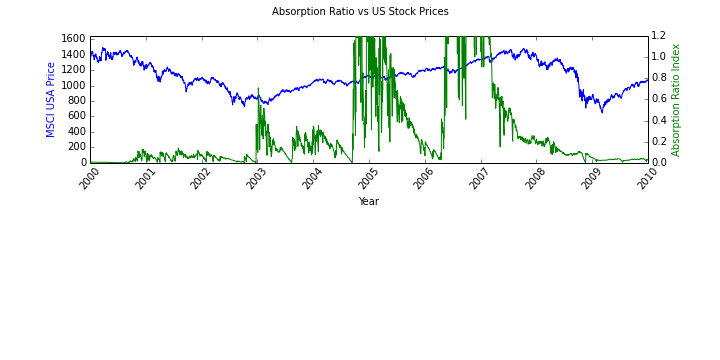
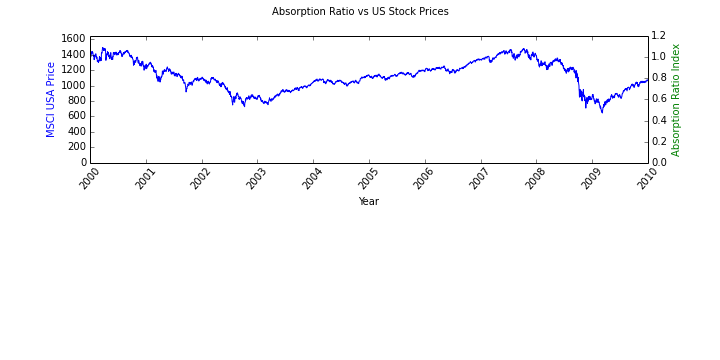
update

diff --git a/main.py b/main.py
@@ -6,7 +6,6 @@
 
 """STAGE 1: IMPORT LIBRARY"""
 import pandas as pd
-<<<<<<< HEAD
 import systemicRiskMeasures as srm                                             #Import Systemic Risk Measures library
 
 
@@ -63,31 +62,35 @@ MSCIUS_PRICES= pd.load('MSCIUSA')
 
 
 """STAGE 3: IMPORT SYSTEMIC RISK MEASURES AND RUN SIGNALS"""
+
 #Mahalanobis Distance
         #Input
 MD_input=EM_Asia_xIndia_returns           #Change this value for data required
         #Run
-SRM_mahalanobis= srm.MahalanobisDist(Returns=MD_input)                       
+SRM_mahalanobis= srm.MahalanobisDist(Returns=MD_input)   
 SRM_mahalanobis_turbulent_nonturbulent_days= srm.MahalanobisDist_Turbulent_Returns(MD_returns= SRM_mahalanobis, Returns=MD_input)
+MD_input= MD_input.drop('MD',1)
+EM_Asia_xIndia_returns = EM_Asia_xIndia_returns.drop('MD',1)    
         #Graph
 SRM_HistoricalTurbulenceIndexGraph= srm.HistoricalTurbulenceIndexGraph( Mah_Days=SRM_mahalanobis,  width=30, figsize=(10,2.5))
 
 #Correlation Surprise
         #Input
-Corr_Input= returns
+Corr_Input= EM_Asia_xIndia_returns
         #Run
 SRM_Correlation_Surprise=srm.Correlation_Surprise(Returns=Corr_Input)
 
 #Absorption Ratio
         #Input
-AR_input= EM_Asia_xIndia_returns
-Comparision_input= MSCIUS_PRICES
+AR_input= FamaFrench49
+Comparision_input= MSCIUS_PRICES #must be same length as AR
         #Run
 SRM_absorptionratio= srm.Absorption_Ratio(Returns= AR_input)                        #define Absorption Ratio
 SRM_Absorption_Ratio_Standardised_Shift= srm.Absorption_Ratio_Standardised_Shift(AR_Returns= SRM_absorptionratio[0])
 SRM_Absorption_Ratio_Standardised_Shift_monthly= SRM_Absorption_Ratio_Standardised_Shift.resample('M')
         #Graphs
-SRM_Absorption_Ratio_and_Stock_Prices_Graph= srm.Absorption_Ratio_VS_MSCI_Graph(MSCI=Comparision_input, AR_returns=SRM_absorptionratio[0])
+SRM_AR_plot= SRM_absorptionratio[0].plot(figsize=(10,4))
+#SRM_Absorption_Ratio_and_Stock_Prices_Graph= srm.Absorption_Ratio_VS_MSCI_Graph(MSCI=Comparision_input, AR_returns=SRM_absorptionratio[0])
 
 
 
@@ -114,69 +117,10 @@ SRM_VaR_and_Realised_Returns = srm.MahalanobisDist_Table3(Portfolios=SRM_Efficie
      #absorption Ratio_2 
 #SRM_Centraility= srm.AR_systemic_importance(AR=SRM_absorptionratio)
    
-   
-   
+    
 
 #PORBIT MODEL
 
-
-
-   #Systemic Risk Measures 
+  #Systemic Risk Measures 
 #systemicRiskMeasure= [SRM_mahalanobis,SRM_correlationsurprise,SRM_absorptionratio]# group systemic risk measures
 #srm.print_systemic_Risk(systemicRiskMeasure,MSCIUS_PRICES)
-=======
-import datetime as dt 
-import numpy as np
-import pickle as pk
->>>>>>> e08e397ccecda56be980cb9ac8a9c1712c7e6cb1
-
-
-
-
-
-<<<<<<< HEAD
-=======
-SRM_mahalanobis= srm.MahalanobisDist(returns)[0]#define Mahalanobis Distance Formula
-SRM_correlationsurprise= srm.Correlation_Surprise(returns)#define Correlation Surprise Score
-SRM_absorptionratio= srm.Absorption_Ratio(returns)#define Absorption Ratio
-
-#output = pk.open('data.pk1','wb')
-#pk.dump(data)
-
-# Creating data frame for systemic risk measures
-
-
-systemicRiskMeasure_df = pd.DataFrame(SRM_mahalanobis,SRM_correlationsurprise,SRM_absorptionratio)
-systemicRiskMeasure_df.columns = ['Mahanalobis','CorrelationSurprise','AbsorptionRatio']
-
-
-
-
-
-#systemicRiskMeasure= [SRM_mahalanobis,SRM_correlationsurprise,SRM_absorptionratio] # group systemic risk measures
-#srm.print_systemic_Risk(systemicRiskMeasure)
->>>>>>> e08e397ccecda56be980cb9ac8a9c1712c7e6cb1
-
-
-
-#sysRiskMeasure=0
-#for sysRiskMeasure in systemicRiskMeasure:
- #   fig= srm.print_systemic_Risk(systemicRiskMeasure[sysRiskMeasure])
-  #  fig.savefig("{}.jpg".format(sysRiskMeasure))
-
-
-
-
-
-
-
-
-
-
-
-
-
-
-
-
-

diff --git a/systemicRiskMeasures.py b/systemicRiskMeasures.py
@@ -70,7 +70,8 @@ def MahalanobisDist_Turbulent_Returns(MD_returns, Returns):
     non_Turbulent_Days=returns[returns['MD']<MD_returns.quantile(.75)[0]]
     non_Turbulent_Days= non_Turbulent_Days.drop('MD', 1)
     
-    Returns.drop('MD',1)
+    Returns=Returns.drop('MD',1)
+    
    
     return turbulent, non_turbulent, Turbulent_Days,non_Turbulent_Days
     
@@ -557,7 +558,8 @@ def Absorption_Ratio(Returns):
     import math as mth                                                         #import math
     
         #stage1: GATHER DAILY TRAIL LENGTH
-    time_series_of_500days=len(Returns)-500                               #collect data that is outside of initial 500day window
+    
+    time_series_of_500days=len(Returns)-500                              #collect data that is outside of initial 500day window
     
         #stage2: GENERATE ABSORPTION RATIO DATA
     plotting_data=[]                                                           #create list titled plot data
@@ -603,10 +605,10 @@ def Absorption_Ratio(Returns):
     plot_array= np.array(plotting_data)                                        #convert plotting_data into array
     dates= Returns[500:time_series_of_500days+500].index                  #gather dates index over 500 day window iterations
     Absorption_Ratio_daily=pd.DataFrame(plot_array,index=dates,columns=list('R'))#merge dates and Absorption ratio returns
-    Absorption_Ratio= Absorption_Ratio_daily
+    
     #Absorption_Ratio=Absorption_Ratio_daily.resample('M', how=None)#group daily data into monthly data
     
-    return  Absorption_Ratio, ev_vectors                                                  #print Absorption Ratio
+    return  Absorption_Ratio_daily, ev_vectors                                                  #print Absorption Ratio
 
 def Absorption_Ratio_VS_MSCI_Graph(MSCI, AR_returns):
     
